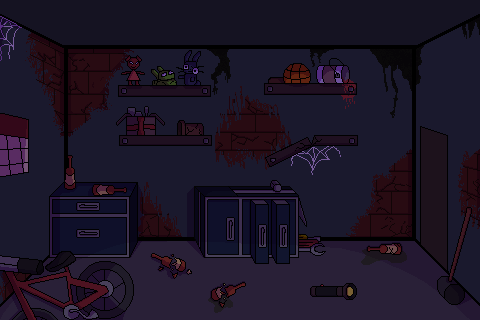
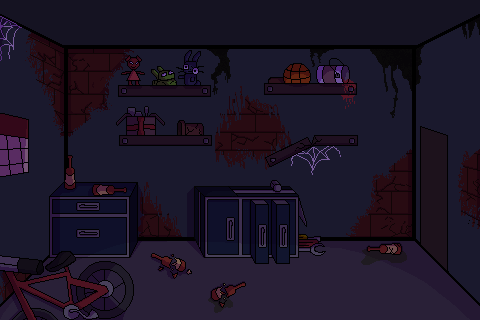
spritesheet added. game pointer added to the game

Changed region(s): [[0.9062, 0.6562, 1.0, 0.9688], [0.625, 0.875, 0.75, 0.9375]]

diff --git a/core/src/interno/mygdx/casachorona/screen/GameScreen.java b/core/src/interno/mygdx/casachorona/screen/GameScreen.java
@@ -3,6 +3,7 @@ package interno.mygdx.casachorona.screen;
 import com.badlogic.gdx.Gdx;
 import com.badlogic.gdx.InputMultiplexer;
 import com.badlogic.gdx.graphics.Texture;
+import com.badlogic.gdx.graphics.g2d.Sprite;
 import com.badlogic.gdx.graphics.g2d.SpriteBatch;
 import com.badlogic.gdx.scenes.scene2d.Stage;
 import com.badlogic.gdx.scenes.scene2d.ui.Table;
@@ -19,6 +20,7 @@ import interno.mygdx.casachorona.model.PlayerPointer;
 import interno.mygdx.casachorona.ui.DialogueBox;
 import interno.mygdx.casachorona.world.Scene;
 import interno.mygdx.casachorona.world.World;
+import interrno.mygdx.casachorona.graphics.AssetTextures;
 import interrno.mygdx.casachorona.graphics.BackgroundTextures;
 
 public class GameScreen extends AbstractScreen {
@@ -35,7 +37,9 @@ public class GameScreen extends AbstractScreen {
 	//private ScreenViewport gameViewport;
 	
 	private BackgroundTextures backgroundTextures;
+	private AssetTextures assetTextures;
 	private Texture backgroundRender;
+	private Sprite playerSprite;
 	
 	private int uiScale = 1;
 	
@@ -49,6 +53,7 @@ public class GameScreen extends AbstractScreen {
 		initUI();
 		batch = new SpriteBatch();
 		backgroundTextures = new BackgroundTextures();
+		assetTextures = new AssetTextures();
 		
 		player = new PlayerPointer(Settings.SCREEN_WIDTH * Settings.SCREEN_SCALE/2, Settings.SCREEN_HEIGHT * Settings.SCREEN_SCALE/2);
 		world = new World();
@@ -60,7 +65,7 @@ public class GameScreen extends AbstractScreen {
 		multiplexer.addProcessor(0, dialogueController);
 		multiplexer.addProcessor(1, playerController);
 		
-		dialogueController.startDialogue(DialogueDatabase.getDialogue(0));
+		//dialogueController.startDialogue(DialogueDatabase.getDialogue(0)); //teste de dialogo
 	}
 	
 	private void initUI() {
@@ -100,6 +105,9 @@ public class GameScreen extends AbstractScreen {
 		//renderizar cenario
 		backgroundRender = backgroundTextures.getSceneArt(currentScene.getLocation());
 		batch.draw(backgroundRender, 0, 0, Settings.SCREEN_WIDTH * Settings.SCREEN_SCALE, Settings.SCREEN_HEIGHT *Settings.SCREEN_SCALE);
+		
+		playerSprite = assetTextures.getPlayerPointer(player.getPointerType());
+		batch.draw(playerSprite, player.getX(), Settings.SCREEN_HEIGHT * Settings.SCREEN_SCALE - player.getY() - playerSprite.getHeight(), playerSprite.getWidth(), playerSprite.getHeight());
 		
 		batch.end();
 		

diff --git a/core/src/interrno/mygdx/casachorona/graphics/AssetTextures.java b/core/src/interrno/mygdx/casachorona/graphics/AssetTextures.java
@@ -1,5 +1,46 @@
 package interrno.mygdx.casachorona.graphics;
 
+import com.badlogic.gdx.Gdx;
+import com.badlogic.gdx.graphics.Texture;
+import com.badlogic.gdx.graphics.g2d.Sprite;
+
+import interno.mygdx.casachorona.model.PointerType;
+
 public class AssetTextures {
 	
+	private Texture spritesheet = new Texture(Gdx.files.internal("graphics/spritesheet.png"));
+	private Sprite pointerDefaltImg, pointerHighlightImg, pointerUpImg, pointerDownImg, pointerLeftImg, pointerRightImg;
+	private Sprite flashlightImg, hammerImg, penImg, key1Img, key2Img;
+	private Sprite inventoryBox;
+	private Sprite sledgehammerImg;
+	
+	
+	public AssetTextures() {
+		pointerDefaltImg = new Sprite(spritesheet, 73, 3, 17, 24);
+		pointerHighlightImg = new Sprite(spritesheet, 105, 3, 17, 24);
+		pointerUpImg = new Sprite(spritesheet, 136, 0, 14, 30);
+		pointerDownImg = new Sprite(spritesheet, 168, 0, 14, 30);
+		pointerLeftImg = new Sprite(spritesheet, 192, 8, 30, 14);
+		pointerRightImg = new Sprite(spritesheet, 224, 8, 30, 14);
+	}
+	
+	public Sprite getPlayerPointer(PointerType pointerType) {
+		switch (pointerType) {
+		case DEFAULT:
+			return pointerDefaltImg;
+		case HIGHLIGHT:
+			return pointerHighlightImg;
+		case UP:
+			return pointerUpImg;
+		case DOWN:
+			return pointerDownImg;
+		case LEFT:
+			return pointerLeftImg;
+		case RIGHT:
+			return pointerRightImg;
+		default:
+			System.out.println("Sprite de ponteiro nao encontrada");
+			return null;
+		}
+	}
 }

diff --git a/core/src/interno/mygdx/casachorona/model/Item.java b/core/src/interno/mygdx/casachorona/model/Item.java
@@ -1,8 +1,17 @@
 package interno.mygdx.casachorona.model;
 
+import interno.mygdx.casachorona.game.Settings;
+
 public class Item {
 
 	private int x, y, width, height;
+	
+	public Item(int x, int y, int width, int height) {
+		this.x = x * Settings.SCREEN_SCALE;
+		this.y = y * Settings.SCREEN_SCALE;
+		this.width = width * Settings.SCREEN_SCALE;
+		this.height = height * Settings.SCREEN_SCALE;
+	}
 
 	public int getX() {
 		return this.x;
@@ -18,5 +27,9 @@ public class Item {
 
 	public int getHeight() {
 		return height;
+	}
+	
+	public void render(float delta) {
+		
 	}
 }

diff --git a/core/src/interno/mygdx/casachorona/control/ControlPlayer.java b/core/src/interno/mygdx/casachorona/control/ControlPlayer.java
@@ -27,7 +27,7 @@ public class ControlPlayer extends InputAdapter {
 	public boolean touchUp(int screenX, int screenY, int pointer, int button) {
 		if (button == Buttons.LEFT && !dialogueBox.isVisible()) {
 			player.hasClicked(screenX, screenY);
-			System.out.println("Clicou! posicao x: " + screenX + " posicao y: " + screenY);
+			//System.out.println("Clicou! posicao x: " + screenX + " posicao y: " + screenY);
 			return true;
 		}
 		return false;

diff --git a/core/src/interno/mygdx/casachorona/model/PlayerPointer.java b/core/src/interno/mygdx/casachorona/model/PlayerPointer.java
@@ -18,7 +18,7 @@ public class PlayerPointer {
 		this.x = x;
 		this.y = y;
 		this.currentLocation = Location.SCENE1;
-		this.pointerType = PointerType.DEFAULT;
+		this.pointerType = PointerType.LEFT;
 	}
 	
 	public int getX() {
@@ -70,5 +70,9 @@ public class PlayerPointer {
 		if(door != null) {
 			door.interact(this);
 		}
+	}
+	
+	public void render(float delta) {
+		
 	}
 }

diff --git a/core/src/interno/mygdx/casachorona/model/PointerType.java b/core/src/interno/mygdx/casachorona/model/PointerType.java
@@ -2,6 +2,7 @@ package interno.mygdx.casachorona.model;
 
 public enum PointerType {
 	DEFAULT,
+	HIGHLIGHT,
 	UP,
 	DOWN,
 	LEFT,
